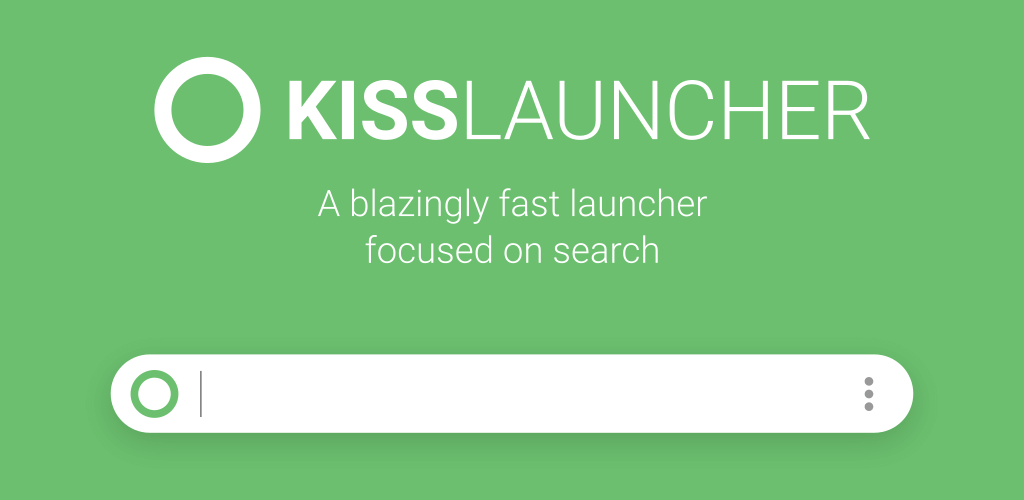
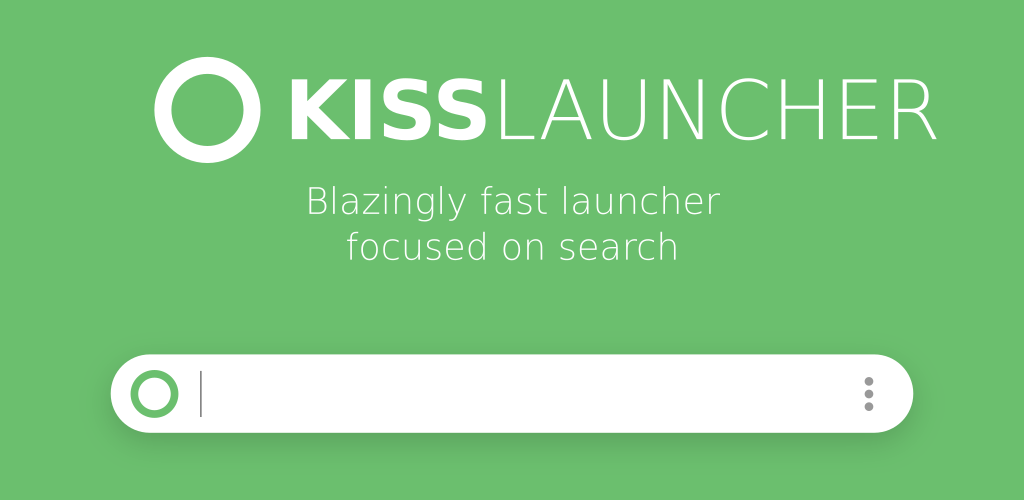
Generate featureGraphic.png automatically

Changed region(s): [[0.2812, 0.15, 0.9062, 0.3], [0.2812, 0.36, 0.6875, 0.45], [0.3438, 0.48, 0.6562, 0.54]]

diff --git a/fastlane/generate_graphics.py b/fastlane/generate_graphics.py
@@ -5,6 +5,7 @@ import subprocess
 import datetime
 import pytz
 import os
+import shutil
 
 LOCALES_PREFIX = './metadata/android/'
 locales = [l.replace(LOCALES_PREFIX, '') for l in sorted(glob.glob(LOCALES_PREFIX + '*'))]
@@ -19,12 +20,14 @@ def get_last_change(file):
     """
     try:
         out = subprocess.check_output(['git', 'log', '-1', r'--pretty=%ci', file], stderr=subprocess.DEVNULL).strip()
-        return datetime.datetime.strptime(out.decode('ascii'), r"%Y-%m-%d %H:%M:%S %z")
     except subprocess.CalledProcessError:
-        return pytz.UTC.localize(datetime.datetime(year=2000,month=1,day=1))
+        out = b"2020-01-01 00:00:00 +0200"
+    return datetime.datetime.strptime(out.decode('ascii'), r"%Y-%m-%d %H:%M:%S %z")
 
 
 for locale in locales:
+    os.makedirs('%s%s/images/phoneScreenshots' % (LOCALES_PREFIX, locale), exist_ok=True)
+
     ######
     # Feature graphic
     ######
@@ -49,3 +52,7 @@ for locale in locales:
             for l in i.readlines():
                 l = l.replace('t:featureGraphic.subtitle', feature_graphic_text)
                 o.write(l)
+
+    subprocess.check_output(['inkscape', '--export-type=png', '--export-filename=/tmp/out.png', '--export-dpi=96', '/tmp/out.svg'])
+
+    shutil.move("/tmp/out.png", os.getcwd() + '/' + feature_graphic_out_path.replace('./', ''))
